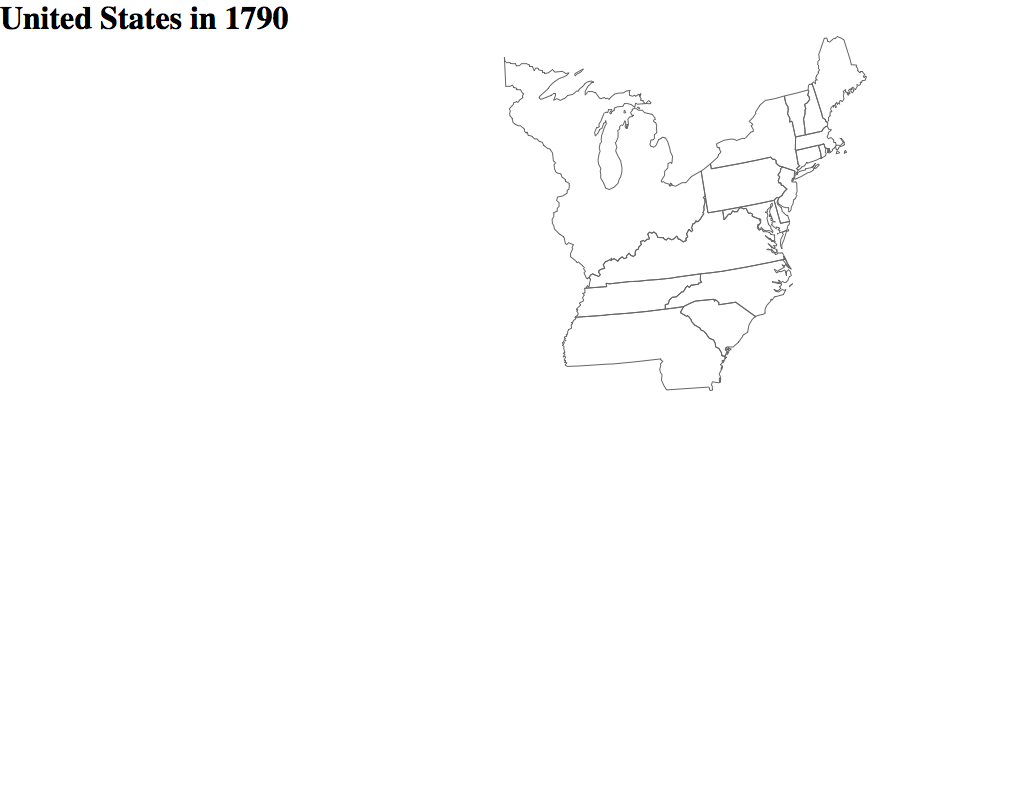
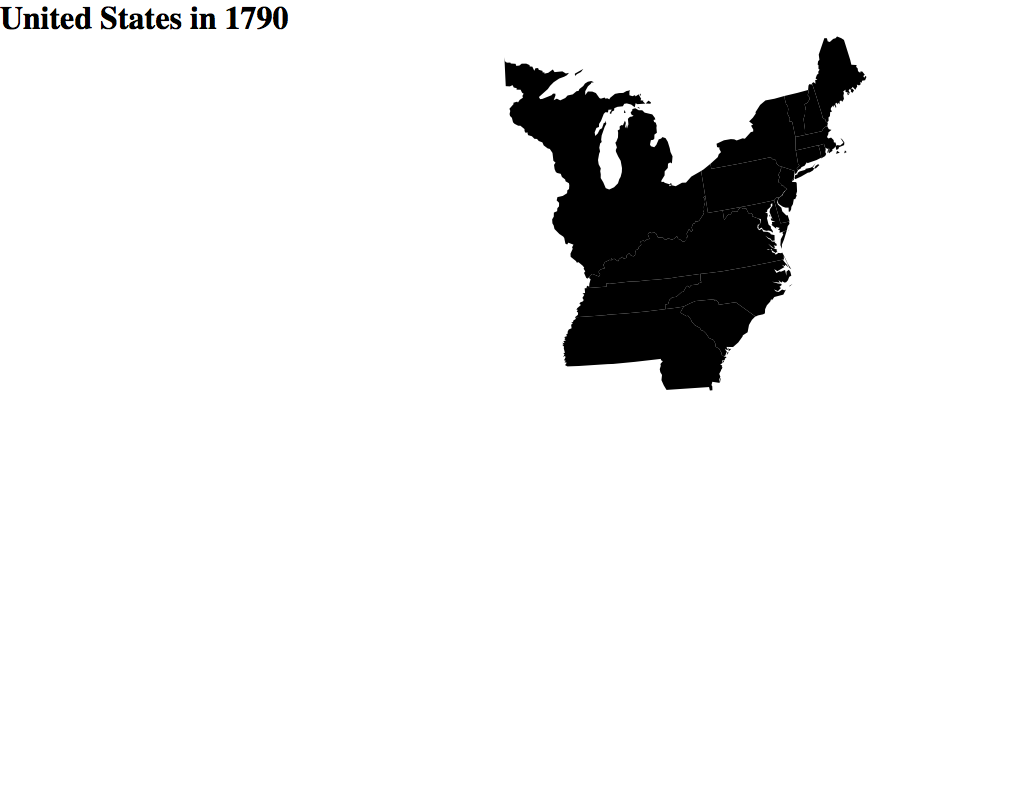
fixed step 3 style and screenshot

Changed region(s): [[0.4688, 0.0305, 0.8438, 0.5191]]

diff --git a/tutorial/3/index.html b/tutorial/3/index.html
@@ -18,15 +18,6 @@
       width: 100%;
       height: 100%;
     }
-
-    path {
-      stroke: #666;
-      fill: none;
-      fill-opacity: 0.6;
-      stroke-width: 1px;
-      stroke-linecap: round;
-      stroke-linejoin: round;
-    }
   </style>
 </head>
 <body>
